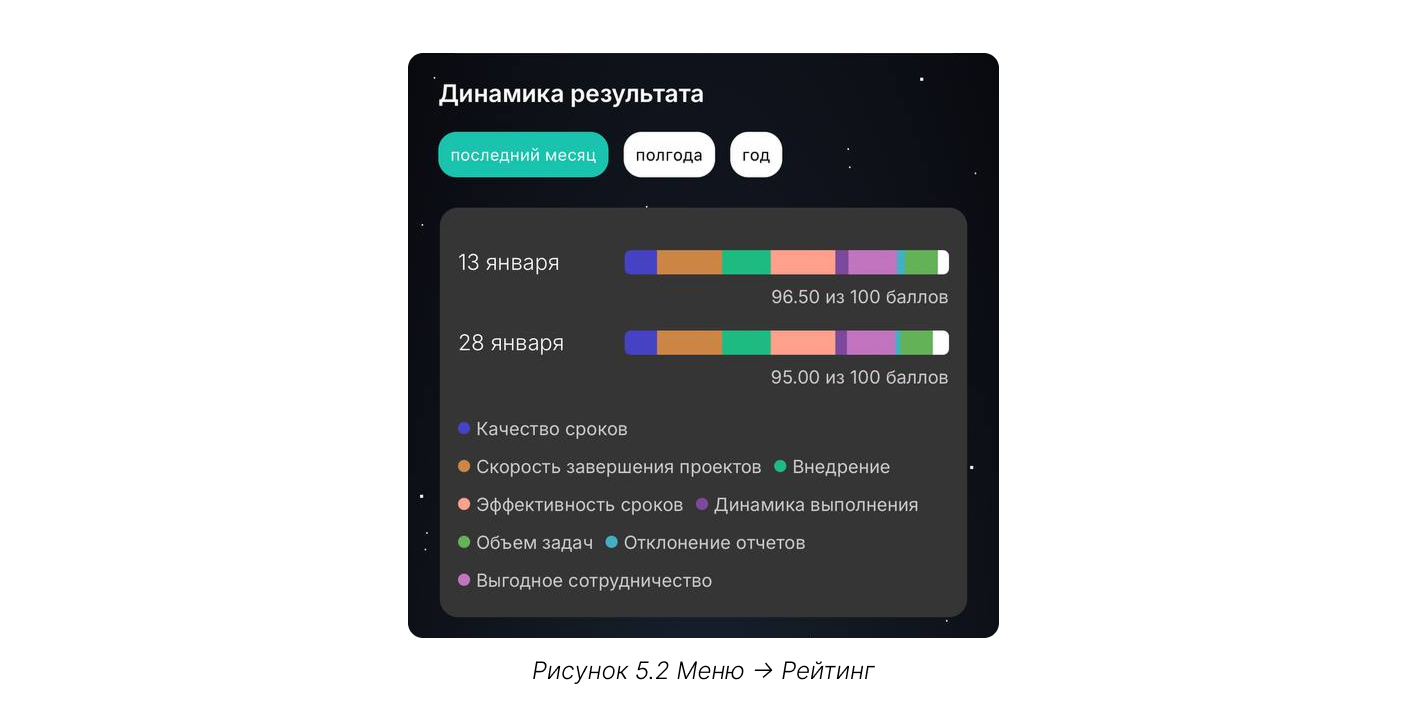
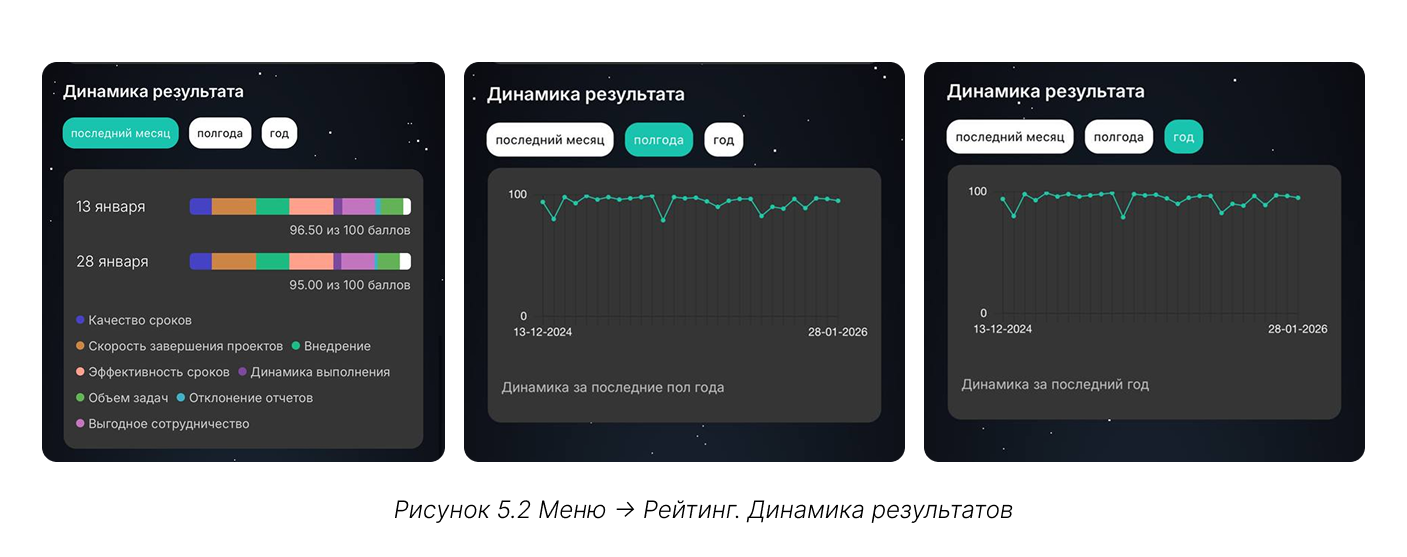
how to start steps 3.4

diff --git a/docs/ru/how_to_start.md b/docs/ru/how_to_start.md
@@ -2,41 +2,42 @@
 
 ## Шаг 1. Регистрация
 
-Запустите телеграм-бот @CT_DC_bot по команде «Launch_CT_DT» или /start и введите выданные ранее логин (электронная почта) и пароль. 
+Запустите телеграм-бот [@CT_DC_bot](https://t.me/CT_DC_bot) по команде «Launch_CT_DT» или /start и введите выданные ранее логин (email) и пароль. 
 
 ![_screen_start_03](_images/_screen_login.png){.center width=1200}
 
 {% note warning %}
 
-Вы можете передавать свои логин и пароль доверенным лицам. Однако, **доступ к системе привязан не только к электронной почте и паролю, но и к профилю телеграм**, из которого выполняется вход. Это означает, что если несколько человек используют одни и те же [учётные данные](*key_data), система будет распозновать их как разных пользователей — по их телеграм-аккаунту.
+Вы можете передавать свои логин и пароль доверенным лицам. Однако, **доступ к системе также привязан и к профилю телеграм**, из которого выполняется вход. Это означает, что если несколько человек используют одни и те же [учётные данные](*key_data), система будет распозновать их как разных пользователей — по их телеграм-аккаунту.
 
 {% endnote %}
 
-Право подтвердить статус главного контрагента предоставляется только первому пользователю, выполнившему вход с выданными учётными данными: все последующие пользователи, использующие те же логин и пароль, автоматически получают статус второстепенных. 
+Среди нескольких пользователей одного аккаунта контрагента для дальнешей работы **выделяется главный и второстепенные пользователи.** Право подтвердить статус главного контрагента предоставляется первому пользователю, выполнившему вход с выданными учётными данными: все последующие пользователи, использующие те же логин и пароль, автоматически получают статус второстепенных. 
 
 Для разных пользователей в личном кабинете доступен индивидуальный чат с технической поддержкой: **запросы и переписка одного пользователя не видны другому.** 
 
-Также только главный контрагент может выставлять оценки координаторам за отчётный период — вся остальная функциональность платформы (работа с заказами, отчётами, командой) остаётся полностью доступна всем пользователям.
+Также **только главный контрагент может выставлять оценки координаторам** за отчётный период — вся остальная функциональность платформы (работа с заказами, отчётами, командой) полностью доступна всем пользователям аккаунта контрагента.
 
 ## Шаг 2. Знакомство с интерфейсом
 
 На главной странице доступно четыре команды:
-1. [экипаж](./work_with_team.md "Экипаж") — добавление членов экипажа и управление командой;
-2. [результат миссий](./mission "Миссии") хранит историю выполненных заявок или миссий, а также отчеты, которые находятся на проверке или отклонены;
-3. [загрузка отчёта](./report "Загрузка отчёта") — фиксация результата миссии;
-4. меню — содержит дополнительные разделы, описанные ниже.
 
 ![_screen_start_03](_images/_screen_menu.png){.center width=1200}
+
+1. **[экипаж](./work_with_team.md "Экипаж")** — добавление членов экипажа и управление командой;
+2. **[результат миссий](./mission.md "Миссии")** — просмотр истории выполненных заданий, а также отчёты, которые находятся на проверке или отклонены;
+3. **[загрузка отчёта](./report.md "Загрузка отчёта")** — фиксация результатов работы;
+4. **[меню](#шаг-3-меню)** — дополнительная функциональность.
 
 ## Шаг 3. Меню
 
 ### 3.1. Профиль 
 
-14 и 29 числа, после завершения отчетного периода, на вкладке «Профиль» для главного пользователя появляется возможность оценить работу с координаторами и оставить оценки по нескольким параметрам.  
+14 и 29 числа, на следующий день после завершения отчётного периода, для главного пользователя появляется возможность оценить работу с координатором по нескольким параметрам и оставить развернутую обратную связь.  
 
-![_screen_start_03](_images/_screen_menu_profile.png){.center width=1200}
+![_screen_start_03](_images/_screen_menu_profile.png){.center width=1200} 
 
-Также все пользователи могут установить фото и выйти из профиля. 
+Также на вкладке «Профиль» можно выйти из текущей учётной записи. 
 
 ### 3.2. Дорожная карта 
 
@@ -44,15 +45,13 @@
 
 ![_screen_start_03](_images/_screen_menu_road_map.png){.center width=1200}
 
-Чтобы вернуться на главный экран, нажмите на стрелку «Назад» в левом верхнем углу.
-
 ### 3.3. Рейтинг
 
-На вкладке размещается сводный отчёт, который формируется на основе метрик по всем выполненным заказам. За выполнение каждой метрики назначаются баллы. Сумма баллов определяет ваше место в рейтинге. Можно посмотреть свое место в компании (среди всех контрагентов), так и в секторе, к которому относится территория (например, Восточная Сибирь или Дальний Восток).
+Выполнение любого заказа оценивается по восьми метрикам: чем качественнее выполнена работа, тем больше баллов начисляется по каждому параметру. 
 
-![_screen_start_03](_images/_screen_menu_rating_1.png){.center width=1200}
+{% cut "Описание, учитываемых метрик" %}
 
-Учитывается восемь метрик:
+Метрики, в разрезе которых оценивается качество выполнения заказа:
 1. **качество сроков** — отражает, насколько своевременно задачи выполняются в соответствии с дедлайнами: чем точнее соблюдены сроки, тем выше ваш результат в сравнении с другими контрагентами;
 2. **скорость завершения проектов** — отражает, насколько быстро задачи закрываются с момента их старта в сравнении с другими контрагентами;
 3. **внедрение** — оценивает, насколько активно вы используете наш MiniApp для загрузки отчетов в сравнении с другими контрагентами;
@@ -62,51 +61,69 @@
 7. **отклонения отчетов** — показатель, какой процент задач был отклонен по всем выполненным работам в сравнении с другими контрагентами; 
 8. **экономическая результативность** — отражает, насколько эффективным и ценным является ваше сотрудничество с нами с точки зрения соотношения затрат и полученных результатов в сравнении с другими контрагентами. 
 
-Отдельный график динамики результата показывает, как изменились ваши результаты по всем метрикам за месяц/полгода/год, и указывает на точки роста.
+{% endcut %}
+
+Баллы суммируются и определяют место в рейтинге в общем по компании и в секторе, к которому относится контрагент. 
+
+![_screen_start_03](_images/_screen_menu_rating_1.png){.center width=1200}
+
+{% note info %}
+
+**Количество баллов в общем рейтинге и в рейтинге сектора может различаться,** так как баллы рассчитываются отдельно. Начисление происходит динамически, на основе сравнения ваших результатов с показателями других контрагентов в соответствующей группе (компании или секторе). Поэтому итоговые значения по одним и тем же метрикам могут отличаться. 
+
+**Например:** по показателю «отклонение отчётов» в общем рейтинге вам могло быть начислено 3,5 балла, а в рейтинге вашего сектора за тот же параметр — 5 баллов.   
+
+{% endnote %}
+
+В разделе «Динамика результатов» вы видите изменение своих показателей за месяц, полгода или год. Графики помогают анализировать периоды роста и спада, а для последнего месяца можно сравнить результаты двух отчётных дат (13 и 29 числа месяца).
 
 ![_screen_start_03](_images/_screen_menu_rating_2.png){.center width=1200}
 
-В качестве ориентира для роста используйте показатели других контрагентов. В рейтинге отображается Топ-5 контрагентов с указанием места и баллов, а также список аутсайдеров с худшими результатами.
+Чтобы определить цели для роста, ориентируйтесь на показатели других участников. В рейтинге отображаются топ-5 контрагентов с указанием их места и баллов, а также список 5 аутсайдеров с худшими результатами
 
 ![_screen_start_03](_images/_screen_menu_rating_3.png){.center width=1200}
 
 ### 3.4. Финансы
 
-На вкладке «Финансы» расположены «Поручения», «Кошелек», «Маркетплейс» и «Чёрный рынок».
-Вкладки «Маркетплейс» и «Чёрный рынок» находятся в разработке, основная работа — на вкладках «Кошелек» и «Поручения».
+В разделе «Финансы» активны вкладки «Кошелёк» и «Поручения». Функции «Маркетплейса» и «Чёрного рынка» находятся в разработке.
 
 {% list tabs %}
 
-- Кошелек
+- Кошелёк
 
-    Здесь отражены результаты в денежном эквиваленте: сколько уже заработали, какой доход ожидается, и сколько баллов получено за выполненные заказы в этом периоде.
-
-    ![_screen_start_03](_images/_screen_menu_fin_start.png){.center width=1200}
-
+    Здесь отражены заработанные в отчетном периоде деньги и баллы.
     При клике на карточку с деньгами отражаются следующие элементы:
 
     ![_screen_start_03](_images/_screen_menu_fin_money.png){.center width=1200}
 
-    1. **Шкала прогресса** с фактическим заработком — сумма по всем выполненным заказам, и с потенциальным заработком — сумма, по заказам, запланированным на вас в текущем отчетном периоде;
-    2. **Поисковая строка** позволяет найти задачу по номеру или имени исполнителя;
-    3. **Команда «...»** разворачивает и сворачивает информацию по всем задачам;
-    4. **Календарь** позволяет отфильтровать задачи по срокам, однако, задачи вне отчетного периода не будут отражены; 
-    5. **Список задач** содержит все задания отчётного периода. Чтобы просмотреть детали конкретной задачи (рабочее наименование и адрес выполнения), нажмите на карточку этой задачи.
+    1. **Шкала прогресса** показывает соотношение между фактическим и потенциальным доходом. 
+    Фактический заработок («вы заработали») — это сумма, которая будет отражена в поручении за уже выполненные заказы: список выполненных заказов отражен ниже(5). 
+    Потенциальный доход («вы можете заработать») — это общая стоимость работ по заказам, назначенных на вас в текущем отчётном периоде. 
+    2. **Поисковая строка** позволяет найти задачу по номеру, названию процесса, адресу или имени исполнителя;
+    3. **Команда «...»** разворачивает и сворачивает информацию по всем задачам в списке;
+    4. **Календарь** позволяет посмотреть те задачи, которые входят в выбранный период, по дате завершения; 
+    5. **Список задач** содержит все задания отчётного периода. Чтобы посмотреть детали конкретной задачи (рабочее наименование и адрес выполнения), нажмите на карточку этой задачи.
+
+    При клике на карточку с баллами отражается детализация начислений за каждый отчётный период — 13 и 28 число каждого месяца. 
+    
+    ![_screen_start_03](_images/_screen_menu_fin_score.png){.center width=1200}
+
+    На одну дату приходится по два начисления — отдельно по общему рейтингу компании и по рейтингу сектора. Каждое начисление можно развернуть, чтобы увидеть подробную разбивку: по каким именно параметрам и сколько баллов было начислено.    
 
 - Поручение
 
-статусы: оплачено, ожидает отчетной документации, новое
+    статусы: оплачено, ожидает отчетной документации, новое
 
-Когда распределяется новое поручение оно появляется со статусом новое: можно познакомиться с документами, скачав zip архив. 
-С документами необходимо ознакомиться, распечатать и подписать.
-Отправить с курьером.
-После того, как курьер забрал документы, необходимо выбрать поручение и подтвердить отправку.
-Статус поменяется на ожидает отчетной документации.
-Когда курьер доставит и менеджеры примут, в планировании появятся задачи, которые необходимо выполнить в рамках поручения. 
-Далее исполнители предоставляют отчеты о выполненных заданиях и получают выплаты. 
-Как только все задания выполнены, поручение меняет статус на оплачено.
+    Когда распределяется новое поручение оно появляется со статусом новое: можно познакомиться с документами, скачав zip архив. 
+    С документами необходимо ознакомиться, распечатать и подписать.
+    Отправить с курьером.
+    После того, как курьер забрал документы, необходимо выбрать поручение и подтвердить отправку.
+    Статус поменяется на ожидает отчетной документации.
+    Когда курьер доставит и менеджеры примут, в планировании появятся задачи, которые необходимо выполнить в рамках поручения. 
+    Далее исполнители предоставляют отчеты о выполненных заданиях и получают выплаты. 
+    Как только все задания выполнены, поручение меняет статус на оплачено.
 
-поиск и календарь для фильтрации.
+    поиск и календарь для фильтрации.
 
 {% endlist %}
 
